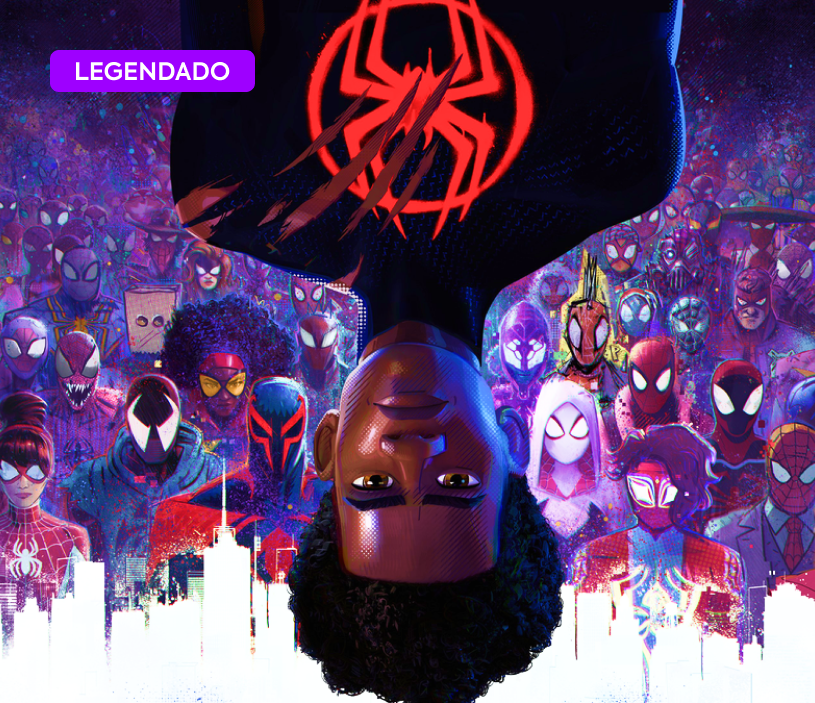
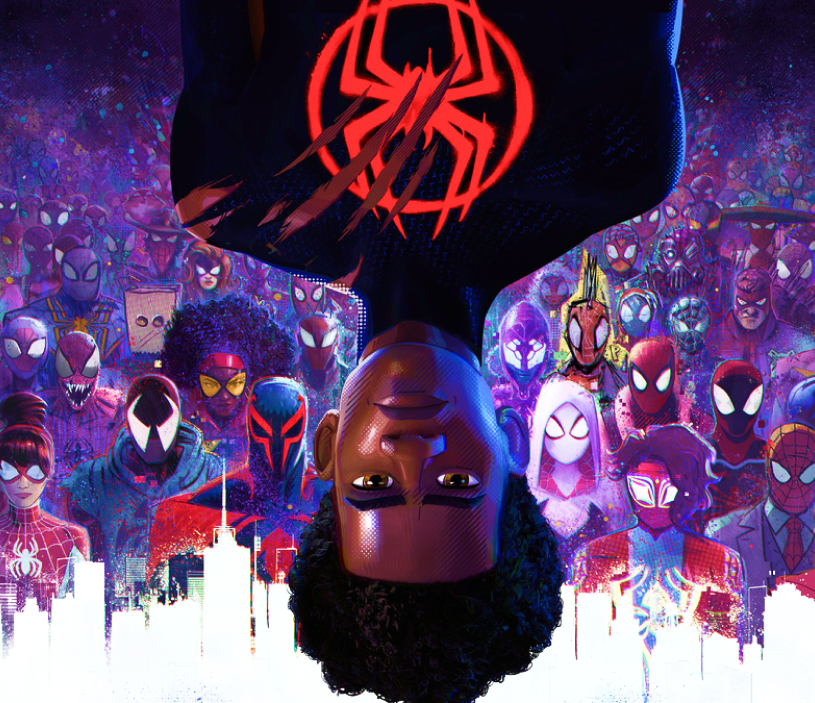
Ticket Spider-man with animation

Changed region(s): [[0.0613, 0.0597, 0.3374, 0.1494]]

diff --git a/js/vanilla-tilt.min.js b/js/vanilla-tilt.min.js
@@ -1,0 +1,1 @@
+var VanillaTilt=function(){"use strict";class t{constructor(e,i={}){if(!(e instanceof Node))throw"Can't initialize VanillaTilt because "+e+" is not a Node.";this.width=null,this.height=null,this.clientWidth=null,this.clientHeight=null,this.left=null,this.top=null,this.gammazero=null,this.betazero=null,this.lastgammazero=null,this.lastbetazero=null,this.transitionTimeout=null,this.updateCall=null,this.event=null,this.updateBind=this.update.bind(this),this.resetBind=this.reset.bind(this),this.element=e,this.settings=this.extendSettings(i),this.reverse=this.settings.reverse?-1:1,this.resetToStart=t.isSettingTrue(this.settings["reset-to-start"]),this.glare=t.isSettingTrue(this.settings.glare),this.glarePrerender=t.isSettingTrue(this.settings["glare-prerender"]),this.fullPageListening=t.isSettingTrue(this.settings["full-page-listening"]),this.gyroscope=t.isSettingTrue(this.settings.gyroscope),this.gyroscopeSamples=this.settings.gyroscopeSamples,this.elementListener=this.getElementListener(),this.glare&&this.prepareGlare(),this.fullPageListening&&this.updateClientSize(),this.addEventListeners(),this.reset(),!1===this.resetToStart&&(this.settings.startX=0,this.settings.startY=0)}static isSettingTrue(t){return""===t||!0===t||1===t}getElementListener(){if(this.fullPageListening)return window.document;if("string"==typeof this.settings["mouse-event-element"]){const t=document.querySelector(this.settings["mouse-event-element"]);if(t)return t}return this.settings["mouse-event-element"]instanceof Node?this.settings["mouse-event-element"]:this.element}addEventListeners(){this.onMouseEnterBind=this.onMouseEnter.bind(this),this.onMouseMoveBind=this.onMouseMove.bind(this),this.onMouseLeaveBind=this.onMouseLeave.bind(this),this.onWindowResizeBind=this.onWindowResize.bind(this),this.onDeviceOrientationBind=this.onDeviceOrientation.bind(this),this.elementListener.addEventListener("mouseenter",this.onMouseEnterBind),this.elementListener.addEventListener("mouseleave",this.onMouseLeaveBind),this.elementListener.addEventListener("mousemove",this.onMouseMoveBind),(this.glare||this.fullPageListening)&&window.addEventListener("resize",this.onWindowResizeBind),this.gyroscope&&window.addEventListener("deviceorientation",this.onDeviceOrientationBind)}removeEventListeners(){this.elementListener.removeEventListener("mouseenter",this.onMouseEnterBind),this.elementListener.removeEventListener("mouseleave",this.onMouseLeaveBind),this.elementListener.removeEventListener("mousemove",this.onMouseMoveBind),this.gyroscope&&window.removeEventListener("deviceorientation",this.onDeviceOrientationBind),(this.glare||this.fullPageListening)&&window.removeEventListener("resize",this.onWindowResizeBind)}destroy(){clearTimeout(this.transitionTimeout),null!==this.updateCall&&cancelAnimationFrame(this.updateCall),this.reset(),this.removeEventListeners(),this.element.vanillaTilt=null,delete this.element.vanillaTilt,this.element=null}onDeviceOrientation(t){if(null===t.gamma||null===t.beta)return;this.updateElementPosition(),this.gyroscopeSamples>0&&(this.lastgammazero=this.gammazero,this.lastbetazero=this.betazero,null===this.gammazero?(this.gammazero=t.gamma,this.betazero=t.beta):(this.gammazero=(t.gamma+this.lastgammazero)/2,this.betazero=(t.beta+this.lastbetazero)/2),this.gyroscopeSamples-=1);const e=this.settings.gyroscopeMaxAngleX-this.settings.gyroscopeMinAngleX,i=this.settings.gyroscopeMaxAngleY-this.settings.gyroscopeMinAngleY,s=e/this.width,n=i/this.height,l=(t.gamma-(this.settings.gyroscopeMinAngleX+this.gammazero))/s,a=(t.beta-(this.settings.gyroscopeMinAngleY+this.betazero))/n;null!==this.updateCall&&cancelAnimationFrame(this.updateCall),this.event={clientX:l+this.left,clientY:a+this.top},this.updateCall=requestAnimationFrame(this.updateBind)}onMouseEnter(){this.updateElementPosition(),this.element.style.willChange="transform",this.setTransition()}onMouseMove(t){null!==this.updateCall&&cancelAnimationFrame(this.updateCall),this.event=t,this.updateCall=requestAnimationFrame(this.updateBind)}onMouseLeave(){this.setTransition(),this.settings.reset&&requestAnimationFrame(this.resetBind)}reset(){this.onMouseEnter(),this.fullPageListening?this.event={clientX:(this.settings.startX+this.settings.max)/(2*this.settings.max)*this.clientWidth,clientY:(this.settings.startY+this.settings.max)/(2*this.settings.max)*this.clientHeight}:this.event={clientX:this.left+(this.settings.startX+this.settings.max)/(2*this.settings.max)*this.width,clientY:this.top+(this.settings.startY+this.settings.max)/(2*this.settings.max)*this.height};let t=this.settings.scale;this.settings.scale=1,this.update(),this.settings.scale=t,this.resetGlare()}resetGlare(){this.glare&&(this.glareElement.style.transform="rotate(180deg) translate(-50%, -50%)",this.glareElement.style.opacity="0")}getValues(){let t,e;return this.fullPageListening?(t=this.event.clientX/this.clientWidth,e=this.event.clientY/this.clientHeight):(t=(this.event.clientX-this.left)/this.width,e=(this.event.clientY-this.top)/this.height),t=Math.min(Math.max(t,0),1),e=Math.min(Math.max(e,0),1),{tiltX:(this.reverse*(this.settings.max-t*this.settings.max*2)).toFixed(2),tiltY:(this.reverse*(e*this.settings.max*2-this.settings.max)).toFixed(2),percentageX:100*t,percentageY:100*e,angle:Math.atan2(this.event.clientX-(this.left+this.width/2),-(this.event.clientY-(this.top+this.height/2)))*(180/Math.PI)}}updateElementPosition(){let t=this.element.getBoundingClientRect();this.width=this.element.offsetWidth,this.height=this.element.offsetHeight,this.left=t.left,this.top=t.top}update(){let t=this.getValues();this.element.style.transform="perspective("+this.settings.perspective+"px) rotateX("+("x"===this.settings.axis?0:t.tiltY)+"deg) rotateY("+("y"===this.settings.axis?0:t.tiltX)+"deg) scale3d("+this.settings.scale+", "+this.settings.scale+", "+this.settings.scale+")",this.glare&&(this.glareElement.style.transform=`rotate(${t.angle}deg) translate(-50%, -50%)`,this.glareElement.style.opacity=`${t.percentageY*this.settings["max-glare"]/100}`),this.element.dispatchEvent(new CustomEvent("tiltChange",{detail:t})),this.updateCall=null}prepareGlare(){if(!this.glarePrerender){const t=document.createElement("div");t.classList.add("js-tilt-glare");const e=document.createElement("div");e.classList.add("js-tilt-glare-inner"),t.appendChild(e),this.element.appendChild(t)}this.glareElementWrapper=this.element.querySelector(".js-tilt-glare"),this.glareElement=this.element.querySelector(".js-tilt-glare-inner"),this.glarePrerender||(Object.assign(this.glareElementWrapper.style,{position:"absolute",top:"0",left:"0",width:"100%",height:"100%",overflow:"hidden","pointer-events":"none","border-radius":"inherit"}),Object.assign(this.glareElement.style,{position:"absolute",top:"50%",left:"50%","pointer-events":"none","background-image":"linear-gradient(0deg, rgba(255,255,255,0) 0%, rgba(255,255,255,1) 100%)",transform:"rotate(180deg) translate(-50%, -50%)","transform-origin":"0% 0%",opacity:"0"}),this.updateGlareSize())}updateGlareSize(){if(this.glare){const t=2*(this.element.offsetWidth>this.element.offsetHeight?this.element.offsetWidth:this.element.offsetHeight);Object.assign(this.glareElement.style,{width:`${t}px`,height:`${t}px`})}}updateClientSize(){this.clientWidth=window.innerWidth||document.documentElement.clientWidth||document.body.clientWidth,this.clientHeight=window.innerHeight||document.documentElement.clientHeight||document.body.clientHeight}onWindowResize(){this.updateGlareSize(),this.updateClientSize()}setTransition(){clearTimeout(this.transitionTimeout),this.element.style.transition=this.settings.speed+"ms "+this.settings.easing,this.glare&&(this.glareElement.style.transition=`opacity ${this.settings.speed}ms ${this.settings.easing}`),this.transitionTimeout=setTimeout(()=>{this.element.style.transition="",this.glare&&(this.glareElement.style.transition="")},this.settings.speed)}extendSettings(t){let e={reverse:!1,max:15,startX:0,startY:0,perspective:1e3,easing:"cubic-bezier(.03,.98,.52,.99)",scale:1,speed:300,transition:!0,axis:null,glare:!1,"max-glare":1,"glare-prerender":!1,"full-page-listening":!1,"mouse-event-element":null,reset:!0,"reset-to-start":!0,gyroscope:!0,gyroscopeMinAngleX:-45,gyroscopeMaxAngleX:45,gyroscopeMinAngleY:-45,gyroscopeMaxAngleY:45,gyroscopeSamples:10},i={};for(var s in e)if(s in t)i[s]=t[s];else if(this.element.hasAttribute("data-tilt-"+s)){let t=this.element.getAttribute("data-tilt-"+s);try{i[s]=JSON.parse(t)}catch(e){i[s]=t}}else i[s]=e[s];return i}static init(e,i){e instanceof Node&&(e=[e]),e instanceof NodeList&&(e=[].slice.call(e)),e instanceof Array&&e.forEach(e=>{"vanillaTilt"in e||(e.vanillaTilt=new t(e,i))})}}return"undefined"!=typeof document&&(window.VanillaTilt=t,t.init(document.querySelectorAll("[data-tilt]"))),t}();

diff --git a/index.html b/index.html
@@ -1,49 +1,60 @@
 <!DOCTYPE html>
 <html lang="pt-br">
-<head>
-  <meta charset="UTF-8">
-  <meta name="viewport" content="width=device-width, initial-scale=1.0">
-  <link rel="stylesheet" href="css/main.css">
-  <title>Cinema-Ticket</title>
-</head>
-<body>
-  <section class="s-ticket">
-    <div class="ticket">
-      <img src="assets/Film-Image.png" alt="Imagem do filme">
-      <span>Legendado/Dublado</span>
-    </div>
-    <div class="info">
-      <h1>Nome do Filme</h1>
-      <ul>
-        <li>
-          <span>Sala</span>
-          <strong>Numero da Sala</strong>
-        </li>
-        <li>
-          <span>Fileira</span>
-          <strong>Letra/Numero da Fileira</strong>
-        </li>
-        <li>
-          <span>Poltrona</span>
-          <strong>Numero da Poltrona</strong>
-        </li>
-        <li>
-          <span>Data</span>
-          <strong>Data do Ingresso</strong>
-        </li>
-        <li>
-          <span>Sessão</span>
-          <strong>Horario da sessão</strong>
-        </li>
-        <li>
-          <span>Valor</span>
-          <strong>Valor do Ingresso</strong>
-        </li>
-      </ul>
-    </div>
-    <div class="bar-code">
-      <img src="assets/barcode-image.svg" alt="Imagem do codigo de barras">
-    </div>
-  </section>
-</body>
+  <head>
+    <meta charset="UTF-8" />
+    <meta name="viewport" content="width=device-width, initial-scale=1.0" />
+    <link rel="stylesheet" href="css/main.css" />
+    <link rel="preconnect" href="https://fonts.googleapis.com" />
+    <link rel="preconnect" href="https://fonts.gstatic.com" crossorigin />
+    <link
+      href="https://fonts.googleapis.com/css2?family=Lato:wght@400;700;900&family=Poppins:wght@700&display=swap"
+      rel="stylesheet"
+    />
+    <title>Cinema-Ticket</title>
+  </head>
+  <body>
+    <section class="s-ticket">
+      <div class="ticket" data-tilt>
+       <div class="image">
+        <img src="assets/Film-Image.png" alt="Imagem do filme" />
+        <span>Dublado</span>
+       </div>
+        <div class="info">
+          <h1>Homem-Aranha: Através do Aranhaverso</h1>
+          <ul>
+            <li>
+              <span>Sala</span>
+              <strong>18</strong>
+            </li>
+            <li>
+              <span>Fileira</span>
+              <strong>F</strong>
+            </li>
+            <li>
+              <span>Poltrona</span>
+              <strong>12</strong>
+            </li>
+            <li>
+              <span>Data</span>
+              <strong>16Dez23</strong>
+            </li>
+            <li>
+              <span>Sessão</span>
+              <strong>20:00</strong>
+            </li>
+            <li>
+              <span>Valor</span>
+              <strong>R$ 23,50</strong>
+            </li>
+          </ul>
+        </div>
+        <div class="bar-code">
+          <img src="assets/barcode-image.svg" alt="Imagem do codigo de barras" />
+        </div>
+      </div>
+      
+    </section>
+
+    <script src="js/vanilla-tilt.min.js"></script>
+  </body>
 </html>

diff --git a/scss/main.scss b/scss/main.scss
@@ -1,7 +1,128 @@
-*{
+@import "variables";
+* {
   margin: 0;
   padding: 0;
   box-sizing: border-box;
   -webkit-font-smoothing: antialiased; //Tira o serrilhado das fontes
-  
+  font-family: "Lato", sans-serif;
+}
+
+html {
+  background-color: var(--background-page);
+  font-size: 62.5%; // 10px
+}
+
+img {
+  max-width: 100%;
+  display: block;
+}
+
+ul {
+  list-style: none;
+}
+
+.s-ticket {
+  width: 100%;
+  height: 100vh;
+  display: flex;
+  align-items: center;
+  justify-content: center;
+
+  .ticket {
+    max-width: 40rem;
+    background-color: var(--background-ticket);
+    border-radius: 1.3rem;
+    overflow: hidden;
+
+    .image {
+      width: 100%;
+      height: 30.8rem;
+      position: relative;
+
+      span {
+        position: absolute;
+        top: 2rem;
+        left: 2rem;
+        border-radius: 5px;
+        padding: .5rem 1.5rem;
+        font-size: 1.2rem;
+        font-weight: 700;
+        text-transform: uppercase;
+        color: #fff;
+        background-color: var(--background-language);
+
+      }
+    }
+
+    .info{
+      padding: 3rem 2rem;
+      
+      h1{
+        font-weight: 700;
+        font-size: 2.7rem;
+        line-height: 3.2rem;
+        font-family: 'Poppins', sans-serif;
+        margin-top: 2rem;
+        color: var(--title-color);
+      }
+
+      ul{
+        display: grid;
+        grid-template-columns: repeat(3,1fr);
+        gap: 2rem 0;
+        margin-top: 2rem;
+
+        li{
+          span{
+            display: block;
+            color: var(--text-color);
+            font-size: 1.2rem;
+            font-weight: 500;
+            margin-bottom: .3rem;
+          }
+
+          strong{
+            color: var(--title-color);
+            font-size: 1.4rem;
+            font-weight: bold;
+          }
+        }
+      }
+    }
+
+    .bar-code{
+      padding: 2rem;
+      display: flex;
+      align-items: center;
+      justify-content: center;
+      border-top: 2px dashed #999999;
+      position: relative;
+      
+      &:before{
+        content: " ";
+        width: 4rem;
+        height: 4rem;
+        background-color: var(--background-page);
+        position: absolute;
+        border-radius: 50%;
+        top: -2rem;
+        left: -3.2rem;
+        
+      }
+      &:after{
+        content: " ";
+        width: 4rem;
+        height: 4rem;
+        background-color: var(--background-page);
+        position: absolute;
+        border-radius: 50%;
+        top: -2rem;
+        right: -3.2rem;
+      }
+
+      img{
+        max-width: 20rem;
+      }
+    }
+  }
 }

diff --git a/css/main.css b/css/main.css
@@ -1,6 +1,120 @@
+:root {
+  --background-page: #1f2733;
+  --background-ticket: #ffffff;
+  --background-language: #9E00FF;
+  --title-color: #333333;
+  --text-color: #666666;
+}
+
 * {
   margin: 0;
   padding: 0;
   box-sizing: border-box;
   -webkit-font-smoothing: antialiased;
+  font-family: "Lato", sans-serif;
+}
+
+html {
+  background-color: var(--background-page);
+  font-size: 62.5%;
+}
+
+img {
+  max-width: 100%;
+  display: block;
+}
+
+ul {
+  list-style: none;
+}
+
+.s-ticket {
+  width: 100%;
+  height: 100vh;
+  display: flex;
+  align-items: center;
+  justify-content: center;
+}
+.s-ticket .ticket {
+  max-width: 40rem;
+  background-color: var(--background-ticket);
+  border-radius: 1.3rem;
+  overflow: hidden;
+}
+.s-ticket .ticket .image {
+  width: 100%;
+  height: 30.8rem;
+  position: relative;
+}
+.s-ticket .ticket .image span {
+  position: absolute;
+  top: 2rem;
+  left: 2rem;
+  border-radius: 5px;
+  padding: 0.5rem 1.5rem;
+  font-size: 1.2rem;
+  font-weight: 700;
+  text-transform: uppercase;
+  color: #fff;
+  background-color: var(--background-language);
+}
+.s-ticket .ticket .info {
+  padding: 3rem 2rem;
+}
+.s-ticket .ticket .info h1 {
+  font-weight: 700;
+  font-size: 2.7rem;
+  line-height: 3.2rem;
+  font-family: "Poppins", sans-serif;
+  margin-top: 2rem;
+  color: var(--title-color);
+}
+.s-ticket .ticket .info ul {
+  display: grid;
+  grid-template-columns: repeat(3, 1fr);
+  gap: 2rem 0;
+  margin-top: 2rem;
+}
+.s-ticket .ticket .info ul li span {
+  display: block;
+  color: var(--text-color);
+  font-size: 1.2rem;
+  font-weight: 500;
+  margin-bottom: 0.3rem;
+}
+.s-ticket .ticket .info ul li strong {
+  color: var(--title-color);
+  font-size: 1.4rem;
+  font-weight: bold;
+}
+.s-ticket .ticket .bar-code {
+  padding: 2rem;
+  display: flex;
+  align-items: center;
+  justify-content: center;
+  border-top: 2px dashed #999999;
+  position: relative;
+}
+.s-ticket .ticket .bar-code:before {
+  content: " ";
+  width: 4rem;
+  height: 4rem;
+  background-color: var(--background-page);
+  position: absolute;
+  border-radius: 50%;
+  top: -2rem;
+  left: -3.2rem;
+}
+.s-ticket .ticket .bar-code:after {
+  content: " ";
+  width: 4rem;
+  height: 4rem;
+  background-color: var(--background-page);
+  position: absolute;
+  border-radius: 50%;
+  top: -2rem;
+  right: -3.2rem;
+}
+.s-ticket .ticket .bar-code img {
+  max-width: 20rem;
 }

diff --git a/scss/_variables.scss b/scss/_variables.scss
@@ -1,0 +1,7 @@
+:root{
+  --background-page: #1f2733;
+  --background-ticket: #ffffff;
+  --background-language: #9E00FF;
+  --title-color: #333333;
+  --text-color: #666666;
+}
